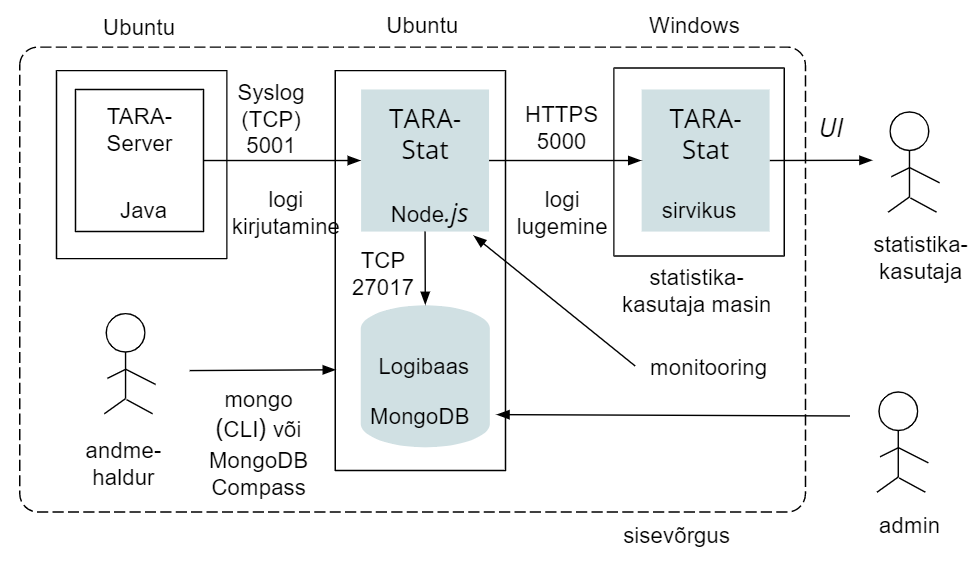
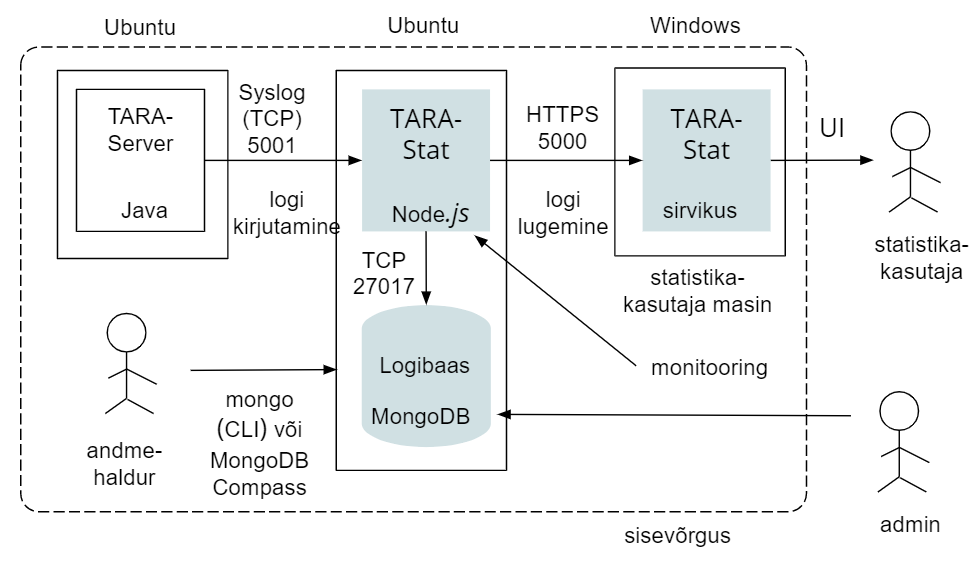
+

diff --git a/docs/TARA-Stat.md b/docs/TARA-Stat.md
@@ -24,9 +24,9 @@ TARA-Stat-i on arendanud Riigi Infosüsteemi Amet.
 
 Tähistused:
 
-`<tara-stat>` (TARA-Stat masina domeeninimi)
-`<tara-stat-https-port>` (TARA-Stat veebirakenduse HTTPS serveri pordinumber)
-`<tara-stat-tls-port>` (TARA-Stat veebirakenduse Syslog TCP TLS serveri pordinumber)
+- `<tara-stat>` (TARA-Stat masina domeeninimi)
+- `<tara-stat-https-port>` (TARA-Stat veebirakenduse HTTPS serveri pordinumber)
+- `<tara-stat-tls-port>` (TARA-Stat veebirakenduse Syslog TCP TLS serveri pordinumber)
 
 ## 1 Tarkvara kirjeldus
 
@@ -37,7 +37,7 @@ TARA-Stat pakub:
 - võimalust autentimisteenuses TARA toimuvate autentimisündmuste logimiseks
 - võimalust logi põhjal statistika arvutamiseks ja vaatamiseks. Eelkõige huvitab autentimiste arv klientrakenduste lõikes ajaperioodil.
 
-Üldistatud arhitektuurijoonis:
+Üldistatud arhitektuurijoonis (pordinumbrid on näitlikud):
 
 <p style='text-align:center;'><img src='img/Arhi.PNG' width= "700"></p>
 
